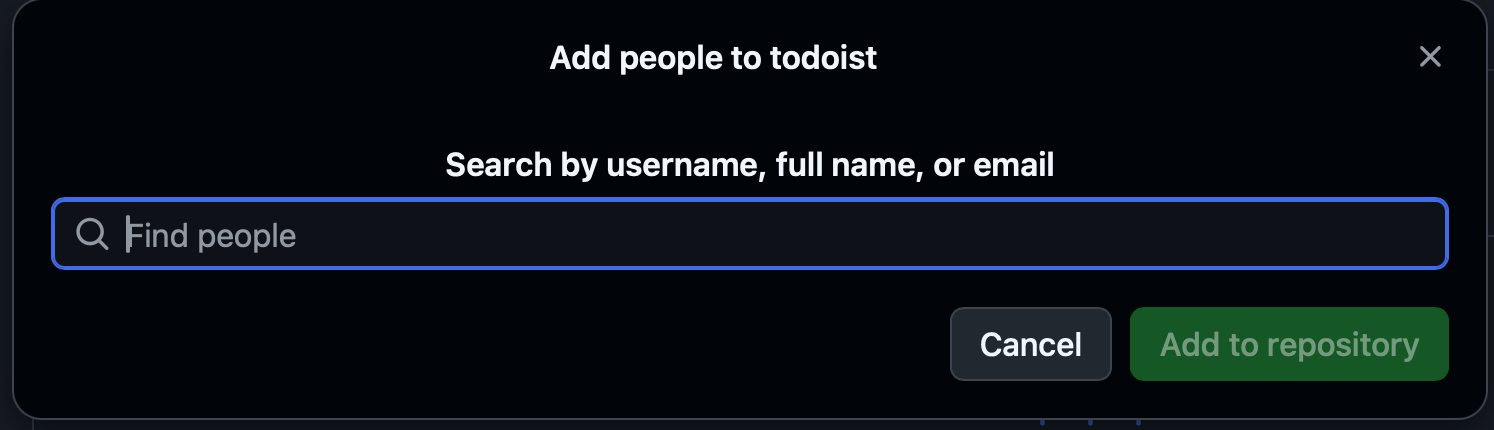
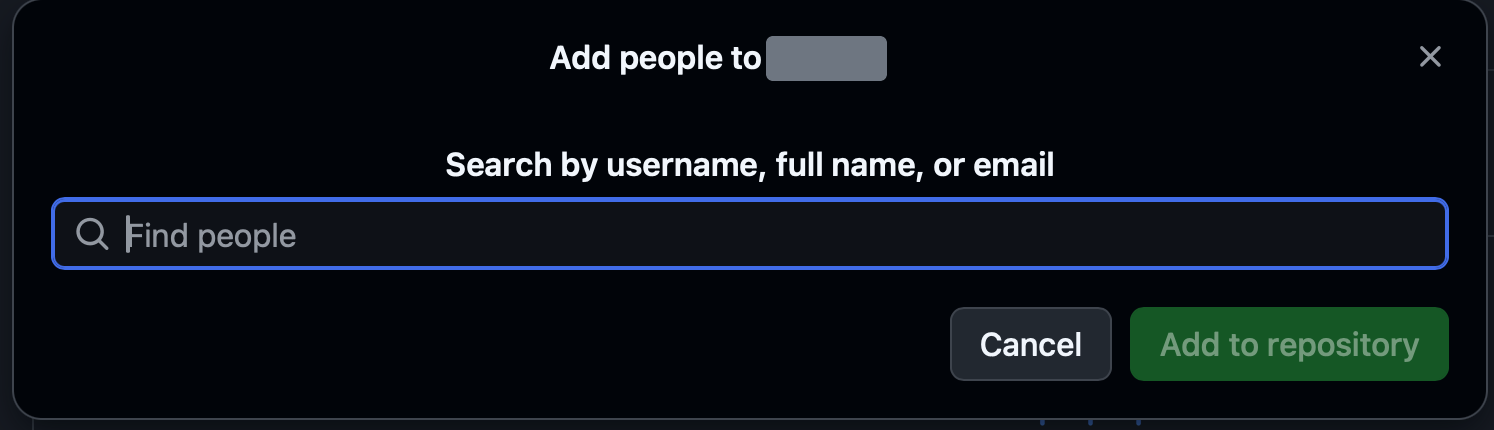
lectures(common): Collaborator の招待の図のリポジトリ名を塗りつぶす

Changed region(s): [[0.4926, 0.0605, 0.6158, 0.2116]]

diff --git a/lectures/common/git.md b/lectures/common/git.md
@@ -373,7 +373,7 @@ Create repository を押すと作成されます.
 
 4. 開いた入力欄に教員のアカウント名を入力し, 下に出る候補から教員のアカウントを選びます. 名前の似た別人のアカウントが候補に並ぶことがあるので, 講義で案内されたアカウント名と 1 文字ずつ一致しているかを確かめてから選んでください.
 
-    ![Add people を押すと開く入力欄. 上端にはリポジトリ名が表示され, 相手を選ぶまでは右下のボタンが Add to repository のまま押せない](/images/common/git/collab-add.png)
+    ![Add people を押すと開く入力欄. 上端にはリポジトリ名が表示され (図では塗りつぶしています), 相手を選ぶまでは右下のボタンが Add to repository のまま押せない](/images/common/git/collab-add.png)
 
 5. 相手を選ぶと, 右下のボタンの表示が `Add <アカウント名> to <リポジトリ名>` に変わります. このボタンを押します.
 
